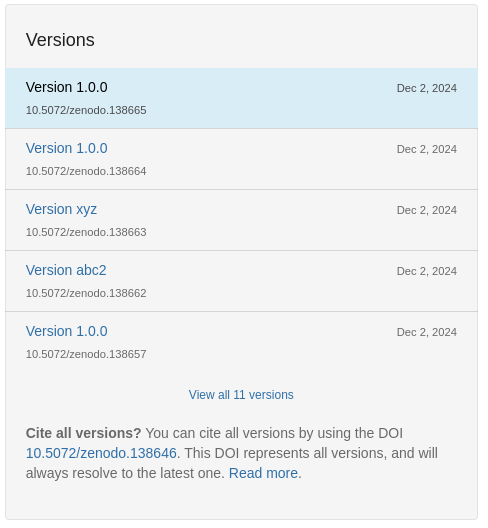
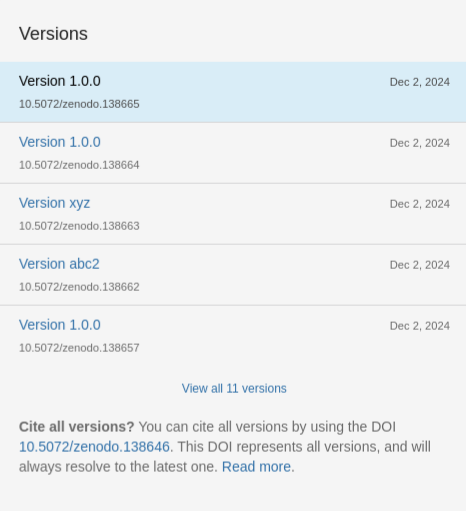
image in admonition

diff --git a/_sass/admonitions.scss b/_sass/admonitions.scss
@@ -39,6 +39,11 @@
     &-caution {
         padding: 10px 30px;
         margin: 2em 0;
+
+        img {
+            border: #ffffff 3px solid;
+            border-radius: 8px;
+        }
     }
 
     &-note {
